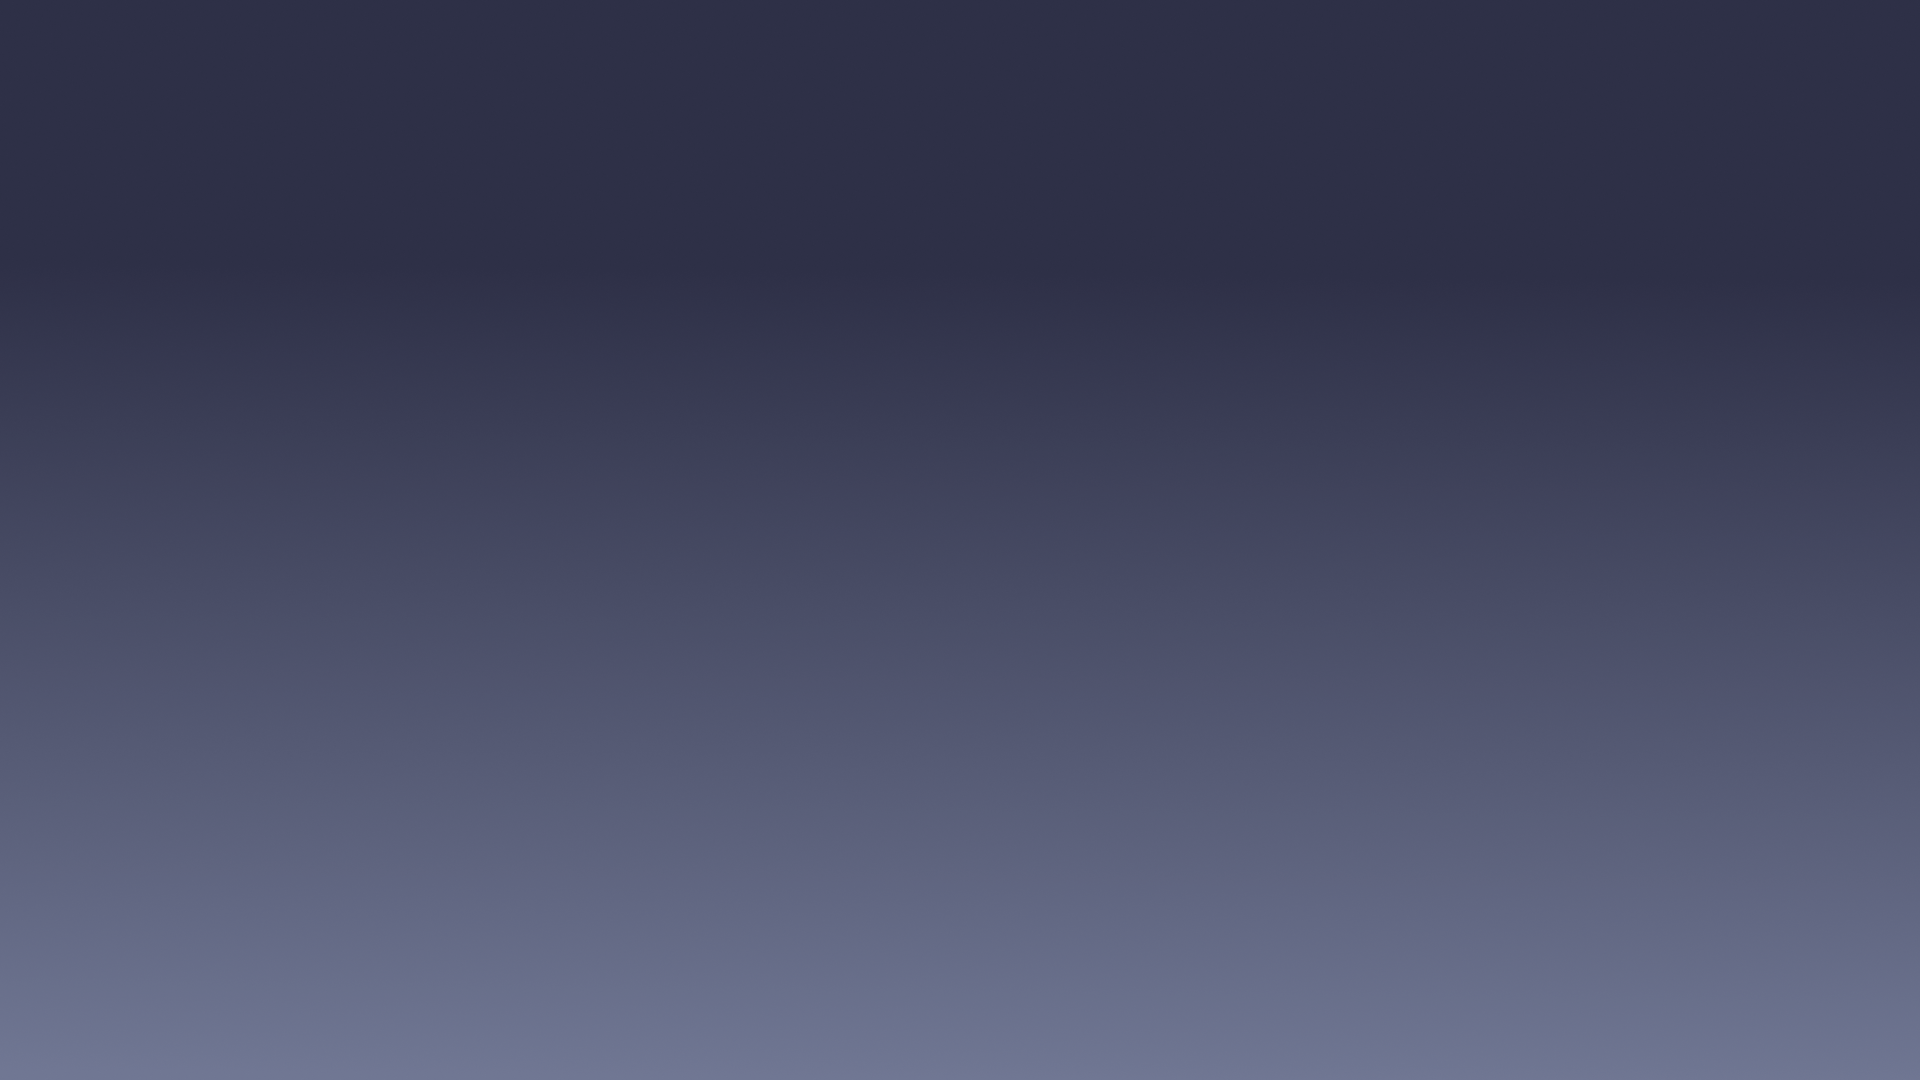
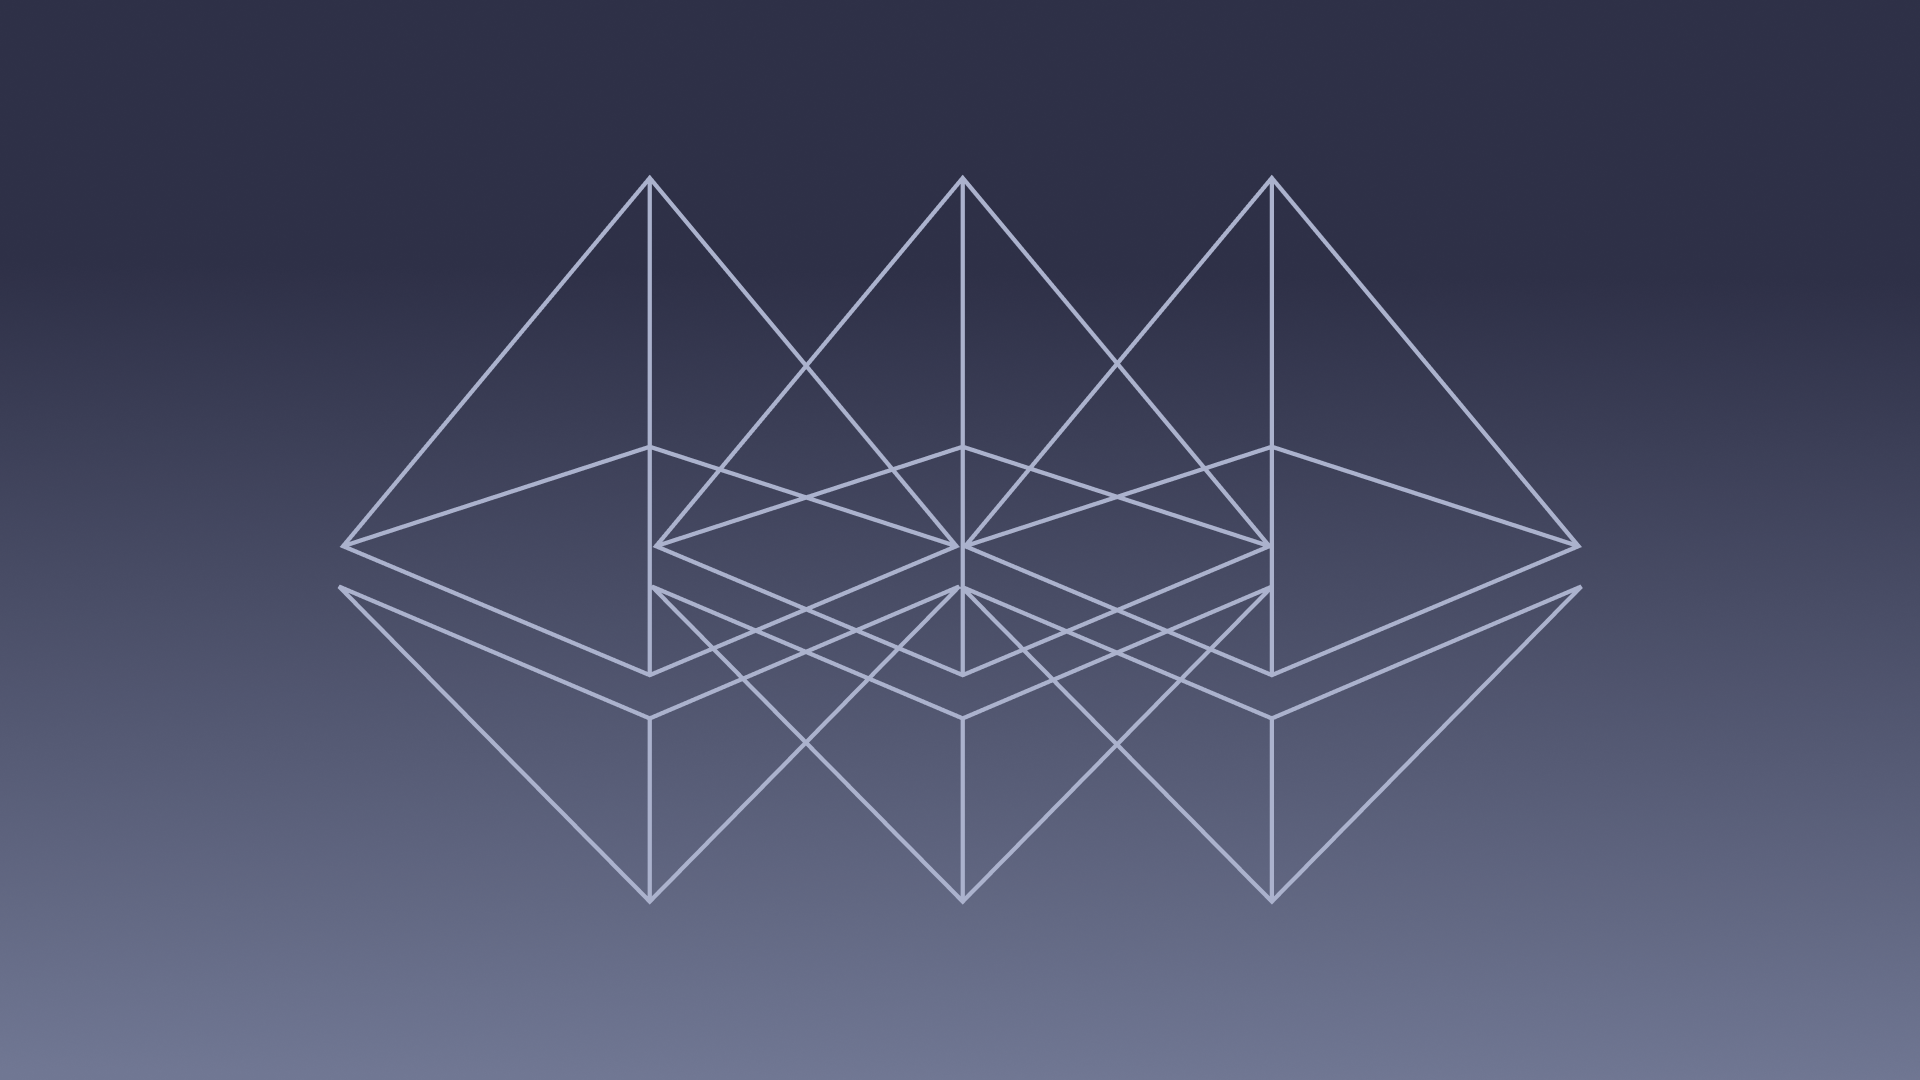
started work on login screen

diff --git a/src/styling/login.css b/src/styling/login.css
@@ -1,8 +1,31 @@
 /* This css module styles the login page */
+#login{
+    position: absolute;
+    left: 44%;
+    top: 18%;
+}
 
 body {
     background-color: #343333;
     color: white;
+    overflow: hidden;
+}
+
+#form{
+    position: relative;
+    top:30vh;
+    left:40vw;
+}
+
+
+#formBox {
+    position: relative;
+    width: 450px;
+    height: 250px;
+
+    top:-3vh;
+    left: 33.3%;
+    z-index: -1;
 }
 
 /* Defines the style for the three images on the page */
@@ -16,7 +39,7 @@ body {
     bottom: 0;
     left: 0;
     right: 0;
-    z-index: -1;
+    z-index: -2;
 }
 
 #backgroundSymbol {
@@ -32,6 +55,7 @@ body {
 #backgroundForm {
     position: absolute;
     left: 25%;
+    z-index:-1
 }
 
 /* Defines the styles for the button on the page */
@@ -51,4 +75,20 @@ body {
     align-items: center;
     text-align: center;
     letter-spacing: 2px;
+}
+
+input{
+    background-color: transparent;
+    border-color: transparent;
+
+    border:none;
+    background:none;
+    outline:none;
+}
+
+hr{
+    position: relative;
+    width: 300px;
+    left: -40%;
+
 }

diff --git a/src/structure/login.html b/src/structure/login.html
@@ -14,12 +14,17 @@
 <body>
 <!-- Defines visible background text -->
 <h1 id="login">Login</h1>
-<h2 id="email">E-mail</h2>
-<h2 id="password">Password</h2>
 
+<div id="form">
+    <h2 id="email">E-mail</h2>
+    <input type="text" class="email input">
+    <hr>
+    <h2 id="password">Password</h2>
+    <input type="text" class="password input">
+    <hr>
+</div>
 <!-- Defines background images -->
-<img id="backgroundForm" src="/images/Login/backgroundForm.png" alt="Login Page Image" width="1097" height="642">
-<img id="backgroundSymbol" src="/images/Login/backgroundSymbol.png" alt="Login Page Image" width="1246" height="731">
+<img id="formBox" src="/images/Login/formBackground.png" alt="Login Page Image" width="1097" height="642">
 <img id="background" src="/images/Login/background.png" alt="Login Page Image" width="1920" height="1080">
 
 

diff --git a/src/styling/enrollment.css b/src/styling/enrollment.css
@@ -39,8 +39,13 @@ body {
     z-index: -1;
 }
 
-hr{
+#login{
     position: relative;
+    left: 50%;
+}
+
+hr{
+
     color: white;
     width : 300px;
     left: -42%;
